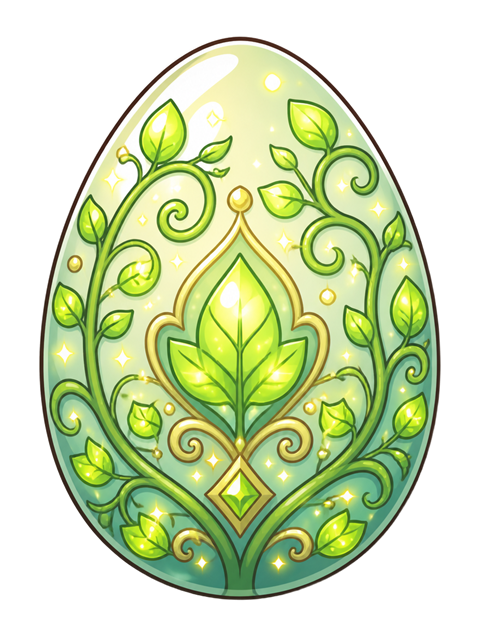
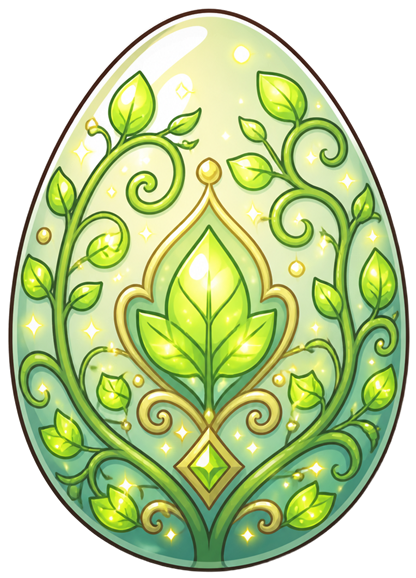
Fix badge unlock + prettier badges, trim egg art, enrich non-math challenges
1. Badges: set-badge ids didn't match the BUBU world set names (set_forest_friends
   vs the awarded set_forest), so set badges never unlocked. Renamed to
   set_forest/beach/candy/dino/ocean + added set_meadow (Rainbow Set) = 10 badges.
   Restyled badges: gold gradient disc with shine + sparkle when earned, grey when
   locked.
2. Eggs: trimmed transparent padding off the 12 in-game egg PNGs so they all fill
   the frame consistently (no more tiny-looking eggs).
3. Challenges: +78 varied non-math (colors, shapes, animals, feelings, sorting)
   with rotating emoji pools and shuffled distractors so prompts/illustrations
   rarely repeat. Pool now 412 total.

Verified: forest set completion unlocks set_forest badge, 10 badges, trimmed eggs
load, 412 challenges (36/15/12/7/8 new non-math), 40/40 render clean, zero errors.

diff --git a/index.html b/index.html
@@ -130,9 +130,12 @@
   .rar{position:absolute;top:6px;right:8px;font-size:10px;font-weight:800;padding:2px 7px;border-radius:999px;color:#fff;}
   .setbar{padding:10px 16px 2px;font-weight:800;color:var(--soft);display:flex;justify-content:space-between;}
   .badgestrip{display:flex;gap:8px;overflow-x:auto;padding:10px 16px;}
-  .badge{flex:0 0 auto;width:64px;text-align:center;font-size:10px;font-weight:800;color:var(--soft);}
-  .badge .bc{width:54px;height:54px;border-radius:16px;background:#fff;box-shadow:var(--shadow);display:flex;align-items:center;justify-content:center;font-size:28px;margin:0 auto 3px;}
-  .badge.locked .bc{background:#ece2d3;filter:grayscale(1) opacity(.5);}
+  .badge{flex:0 0 auto;width:66px;text-align:center;font-size:10px;font-weight:800;color:#7a5a2e;}
+  .badge .bc{position:relative;width:56px;height:56px;border-radius:50%;background:radial-gradient(circle at 50% 36%,#fff7e0,#ffe7a8);box-shadow:0 3px 8px rgba(244,163,0,.35),inset 0 0 0 3px #ffcf5c;display:flex;align-items:center;justify-content:center;font-size:28px;margin:0 auto 4px;overflow:hidden;}
+  .badge:not(.locked) .bc::after{content:"";position:absolute;top:0;left:-70%;width:55%;height:100%;background:linear-gradient(100deg,transparent,rgba(255,255,255,.7),transparent);transform:skewX(-18deg);animation:cardshine 3.2s ease-in-out infinite;}
+  .badge:not(.locked) .bc::before{content:"✦";position:absolute;top:1px;right:4px;font-size:10px;color:#fff;text-shadow:0 0 4px #ffcf5c;}
+  .badge.locked{color:#b3a892;}
+  .badge.locked .bc{background:#ece2d3;box-shadow:inset 0 0 0 3px #d9cdb8;filter:grayscale(1) opacity(.55);}
 
   #home .room{flex:1;position:relative;margin:12px;border-radius:24px;overflow:hidden;background:#bfe6ff center/cover no-repeat;box-shadow:var(--shadow);}
   #home .room::after{content:"";position:absolute;inset:0;border-radius:24px;pointer-events:none;box-shadow:inset 0 -50px 70px rgba(60,40,20,.18), inset 0 0 0 5px #fff;}
@@ -733,11 +736,12 @@ const DATA = {
     {id:"first_hatch", emoji:"🥚", label:{id:"Telur Pertama",en:"First Hatch"}},
     {id:"hatch10",     emoji:"🐣", label:{id:"10 Telur",en:"10 Hatches"}},
     {id:"hatch50",     emoji:"🐥", label:{id:"50 Telur",en:"50 Hatches"}},
-    {id:"set_forest_friends", emoji:"🌳", label:{id:"Set Hutan",en:"Forest Set"}},
-    {id:"set_beach_buddies",  emoji:"🏖", label:{id:"Set Pantai",en:"Beach Set"}},
-    {id:"set_candy_pals",     emoji:"🍭", label:{id:"Set Permen",en:"Candy Set"}},
-    {id:"set_dino_gang",      emoji:"🦕", label:{id:"Set Dino",en:"Dino Set"}},
-    {id:"set_ocean_crew",     emoji:"🌊", label:{id:"Set Laut",en:"Ocean Set"}},
+    {id:"set_forest", emoji:"🌳", label:{id:"Set Hutan",en:"Forest Set"}},
+    {id:"set_beach",  emoji:"🏖", label:{id:"Set Pantai",en:"Beach Set"}},
+    {id:"set_candy",  emoji:"🍭", label:{id:"Set Permen",en:"Candy Set"}},
+    {id:"set_dino",   emoji:"🦕", label:{id:"Set Dino",en:"Dino Set"}},
+    {id:"set_ocean",  emoji:"🌊", label:{id:"Set Laut",en:"Ocean Set"}},
+    {id:"set_meadow", emoji:"🌈", label:{id:"Set Pelangi",en:"Rainbow Set"}},
     {id:"smart20",     emoji:"🧠", label:{id:"20 Jawaban Benar",en:"20 Correct"}},
   ],
 
@@ -909,6 +913,36 @@ DATA.challenges.push(
   // more odd-one-out
   [["🐶","🐱","🐰","🍎"],["🚗","🚌","🚂","🐶"],["🌳","🌳","🏠","🌳"],["🐟","🐠","🐙","🦋"],["🍓","🍒","🍎","🥦"],["1","3","5","A"],["⚽","🏀","🎾","🍕"],["🔵","🟢","🔵","🔵"]].forEach((set,i)=>{ const oddIdx=[3,3,2,3,3,3,3,1][i];
     add({id:`odd2_${i}`,archetype:"FIND_OBJECT",skill:"logic.pattern",tier:3,prompt:{id:"Mana yang BEDA?",en:"Which one is different?"},options:set.map((v,j)=>({v,correct:j===oddIdx}))}); });
+})();
+/* ===== Non-math enrichment (varied illustrations): colors, shapes, animals, feelings, sorting ===== */
+(function(){
+  const add=c=>DATA.challenges.push(c); const sh=a=>a.slice().sort(()=>Math.random()-.5);
+  DATA.skills.push({id:"colors.find",pillar:"colors",label:{id:"Mengenal warna",en:"Colors"}});
+  DATA.skills.push({id:"shapes.find",pillar:"shapes",label:{id:"Mengenal bentuk",en:"Shapes"}});
+  DATA.skills.push({id:"animals.find",pillar:"animals",label:{id:"Mengenal hewan",en:"Animals"}});
+  DATA.skills.push({id:"emotions.feel",pillar:"emotions",label:{id:"Mengenal perasaan",en:"Feelings"}});
+  DATA.skills.push({id:"logic.group",pillar:"logic",label:{id:"Kelompok",en:"Sorting"}});
+  const COL={red:["🍓","🍎","🌹","🍅","❤","🚒"],blue:["🫐","🐳","💙","🔵","🌀","🩵"],yellow:["🍋","🌻","🐤","⭐","🧀","🌟"],green:["🥦","🍏","🐸","🌿","🥑","💚"],purple:["🍇","🍆","💜","🟣","🔮","🌂"],orange:["🍊","🥕","🦊","🏀","🟠","🍑"]};
+  const CN={red:{id:"merah",en:"red"},blue:{id:"biru",en:"blue"},yellow:{id:"kuning",en:"yellow"},green:{id:"hijau",en:"green"},purple:{id:"ungu",en:"purple"},orange:{id:"oranye",en:"orange"}};
+  const cols=Object.keys(COL);
+  cols.forEach(col=>COL[col].forEach((item,k)=>{ const wrongs=sh(cols.filter(c=>c!==col)).slice(0,2).map(c=>COL[c][k%COL[c].length]);
+    add({id:`xcol_${col}_${k}`,archetype:"FIND_ATTRIBUTE",skill:"colors.find",tier:k<2?1:k<4?2:3,prompt:{id:`Cari yang ${CN[col].id}!`,en:`Find the ${CN[col].en} one!`},options:sh([{v:item,correct:true},...wrongs.map(w=>({v:w,correct:false}))])}); }));
+  const SH={circle:["🔵","🟠","🟢","⚪"],square:["🟦","🟥","🟩","⬛"],triangle:["🔺","🔻","🔶","🔼"],star:["⭐","🌟","✨","💫"],heart:["❤","💙","💚","💜"]};
+  const SN={circle:{id:"lingkaran",en:"circle"},square:{id:"kotak",en:"square"},triangle:{id:"segitiga",en:"triangle"},star:{id:"bintang",en:"star"},heart:{id:"hati",en:"heart"}};
+  const sk=Object.keys(SH);
+  sk.forEach(s=>{ for(let k=0;k<3;k++){ const others=sh(sk.filter(x=>x!==s)).slice(0,2);
+    add({id:`xsh_${s}_${k}`,archetype:"FIND_OBJECT",skill:"shapes.find",tier:k<1?1:k<2?2:3,prompt:{id:`Cari ${SN[s].id}!`,en:`Find the ${SN[s].en}!`},options:sh([{v:SH[s][k%SH[s].length],correct:true},...others.map(o=>({v:SH[o][k%SH[o].length],correct:false}))])}); } });
+  const ANI=[["cat","kucing","🐱"],["dog","anjing","🐶"],["rabbit","kelinci","🐰"],["bear","beruang","🐻"],["frog","katak","🐸"],["fox","rubah","🦊"],["bird","burung","🐦"],["fish","ikan","🐟"],["lion","singa","🦁"],["pig","babi","🐷"],["monkey","monyet","🐵"],["duck","bebek","🦆"]];
+  ANI.forEach(([en,id,e],i)=>{ const others=sh(ANI.filter(a=>a[0]!==en)).slice(0,3);
+    add({id:`xani_${en}`,archetype:"FIND_OBJECT",skill:"animals.find",tier:i<4?1:i<8?2:3,prompt:{id:`Cari ${id}!`,en:`Find the ${en}!`},options:sh([{v:e,correct:true},...others.map(o=>({v:o[2],correct:false}))])}); });
+  const EMO=[["happy","senang","😀"],["sad","sedih","😢"],["angry","marah","😡"],["surprised","kaget","😲"],["sleepy","mengantuk","😴"],["scared","takut","😨"],["love","sayang","🥰"]];
+  EMO.forEach(([en,id,e],i)=>{ const others=sh(EMO.filter(a=>a[0]!==en)).slice(0,2);
+    add({id:`xemo_${en}`,archetype:"FIND_OBJECT",skill:"emotions.feel",tier:i<2?1:i<4?2:3,prompt:{id:`Mana wajah ${id}?`,en:`Which face is ${en}?`},options:sh([{v:e,correct:true},...others.map(o=>({v:o[2],correct:false}))])}); });
+  const GR={food:["🍎","🍌","🍪","🍕","🥕"],animal:["🐶","🐱","🐟","🐰","🦊"],vehicle:["🚗","🚌","🚂","✈","🚲"],toy:["🧸","🎈","🪁","🎀","🪀"]};
+  const GN={food:{id:"makanan",en:"food"},animal:{id:"hewan",en:"animal"},vehicle:{id:"kendaraan",en:"vehicle"},toy:{id:"mainan",en:"toy"}};
+  const gk=Object.keys(GR);
+  gk.forEach(g=>{ for(let k=0;k<2;k++){ const other=sh(gk.filter(x=>x!==g))[0];
+    add({id:`xgrp_${g}_${k}`,archetype:"FIND_OBJECT",skill:"logic.group",tier:3,prompt:{id:`Mana ${GN[g].id}?`,en:`Which is ${GN[g].en}?`},options:sh([{v:sh(GR[g])[0],correct:true},...sh(GR[other]).slice(0,2).map(o=>({v:o,correct:false}))])}); } });
 })();
 /* ===== V3 Batch B — 50 color variants + rarity + Rainbow Meadow ===== */
 (function(){
